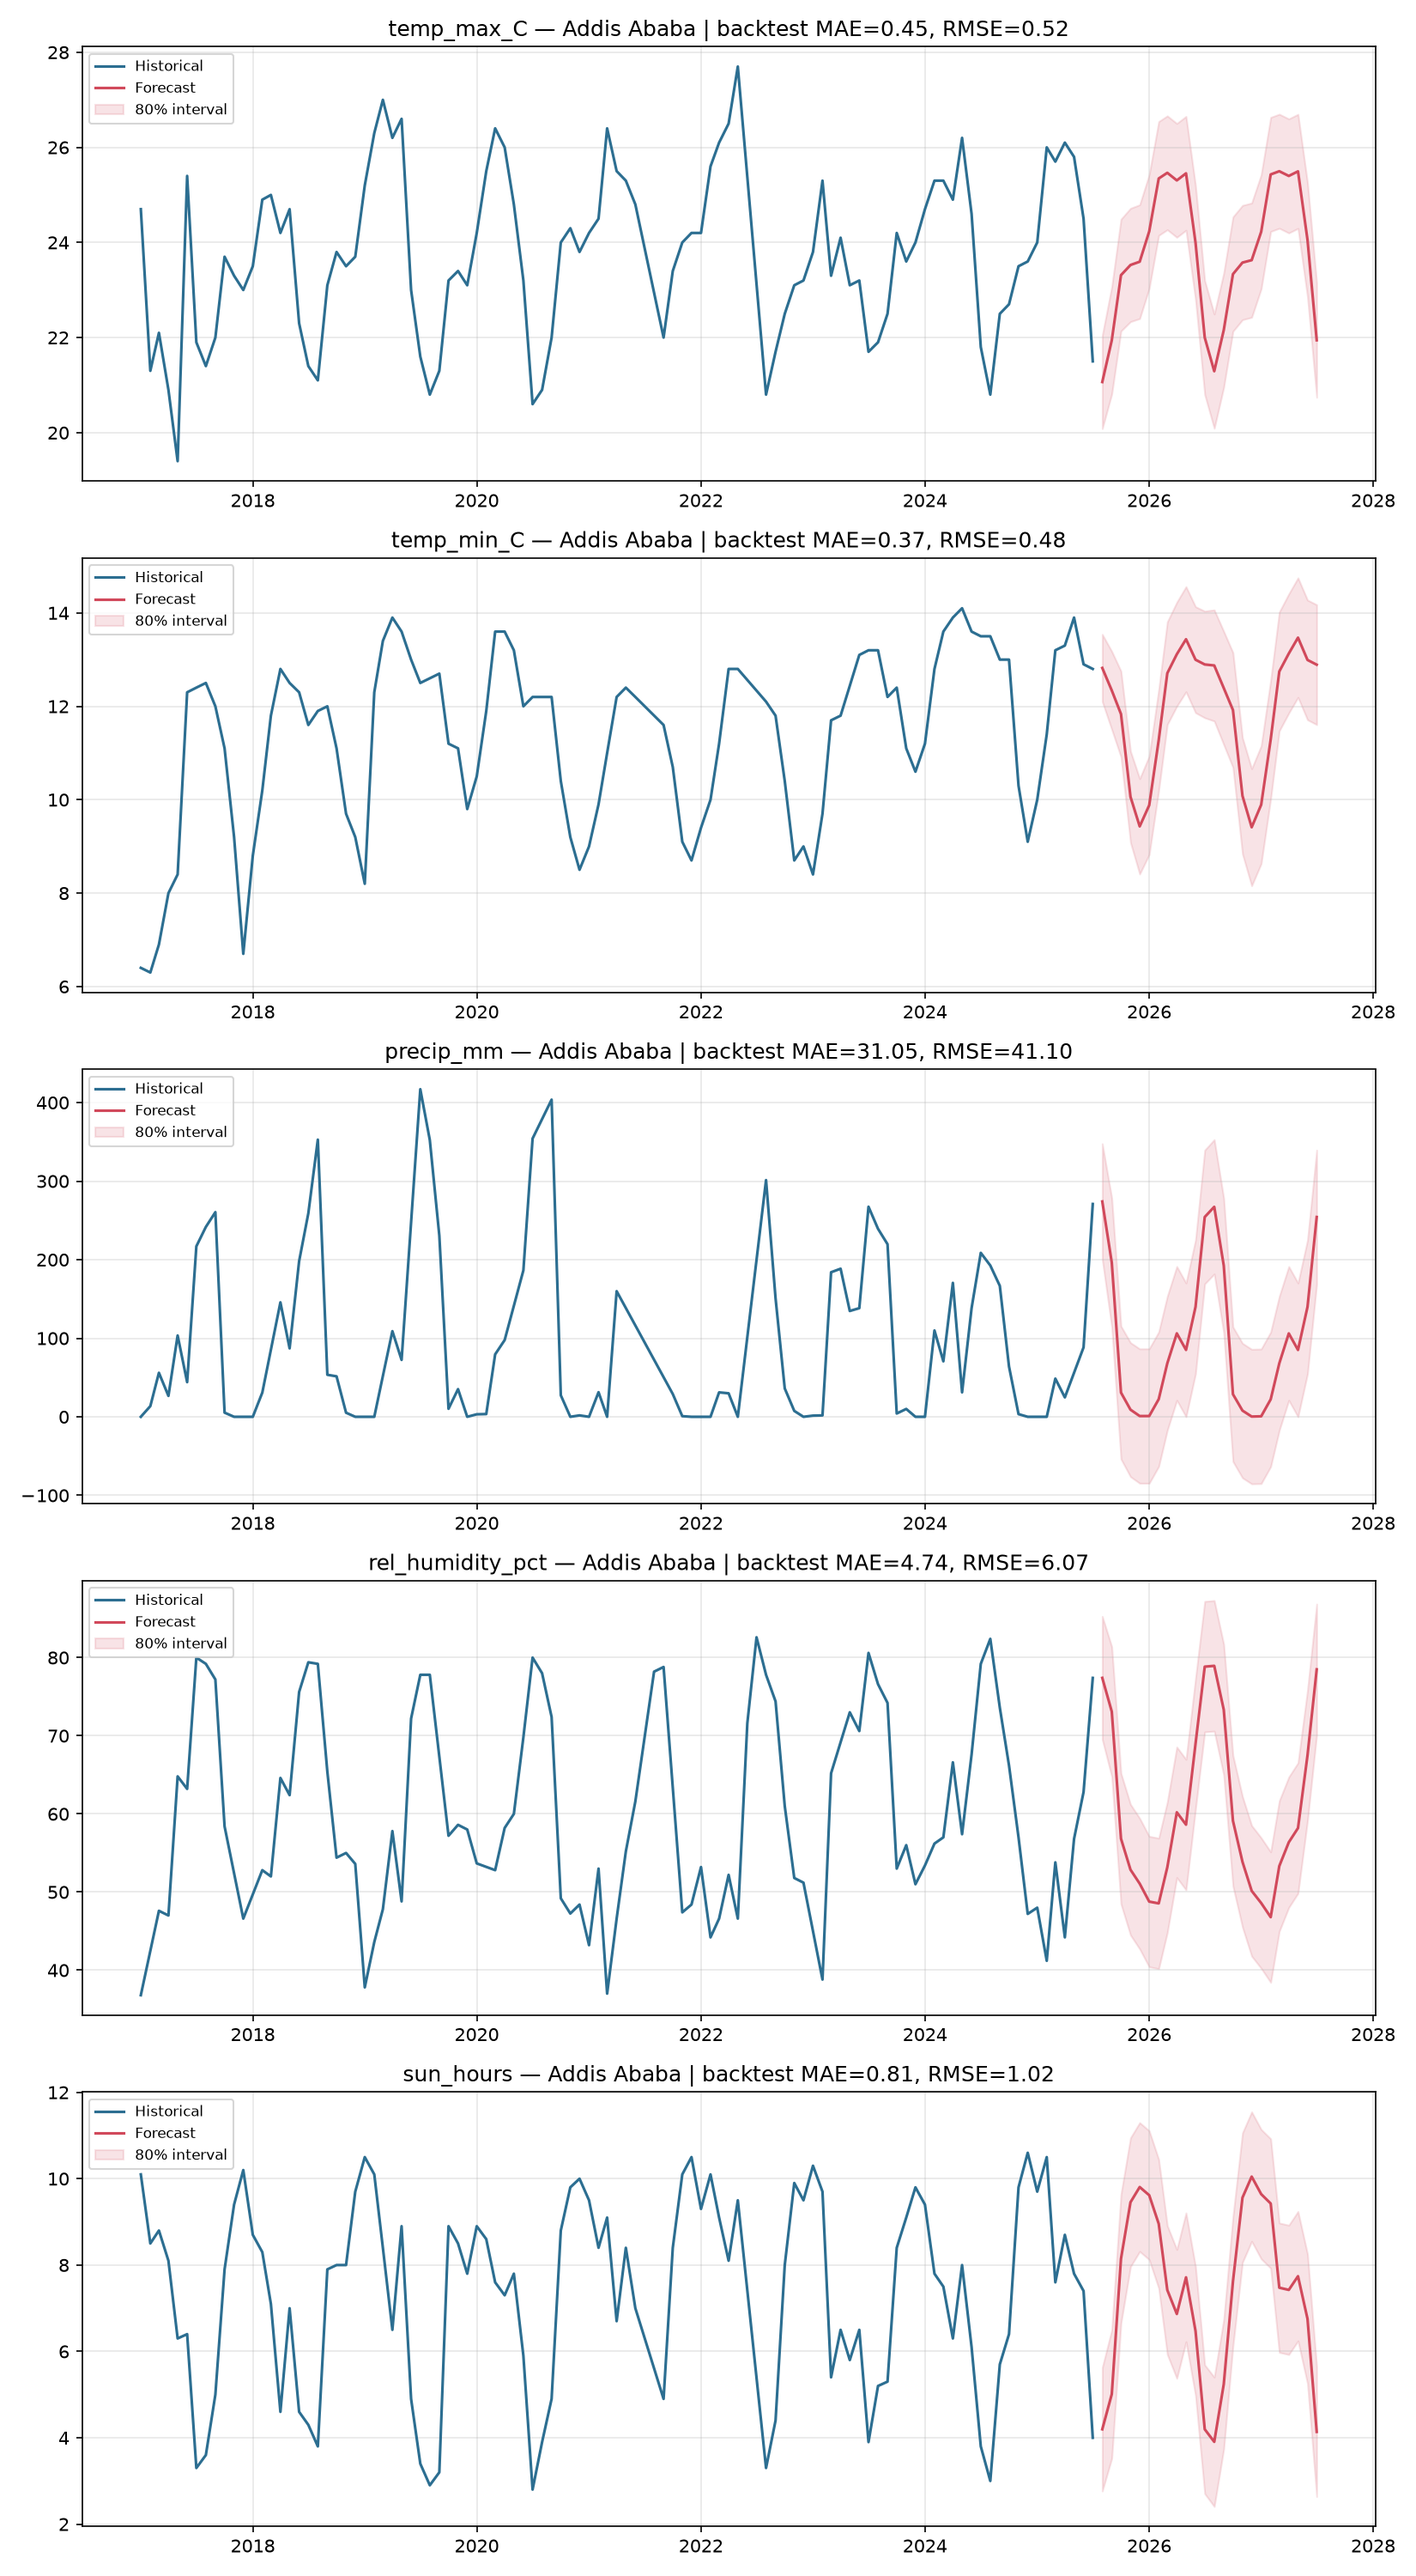
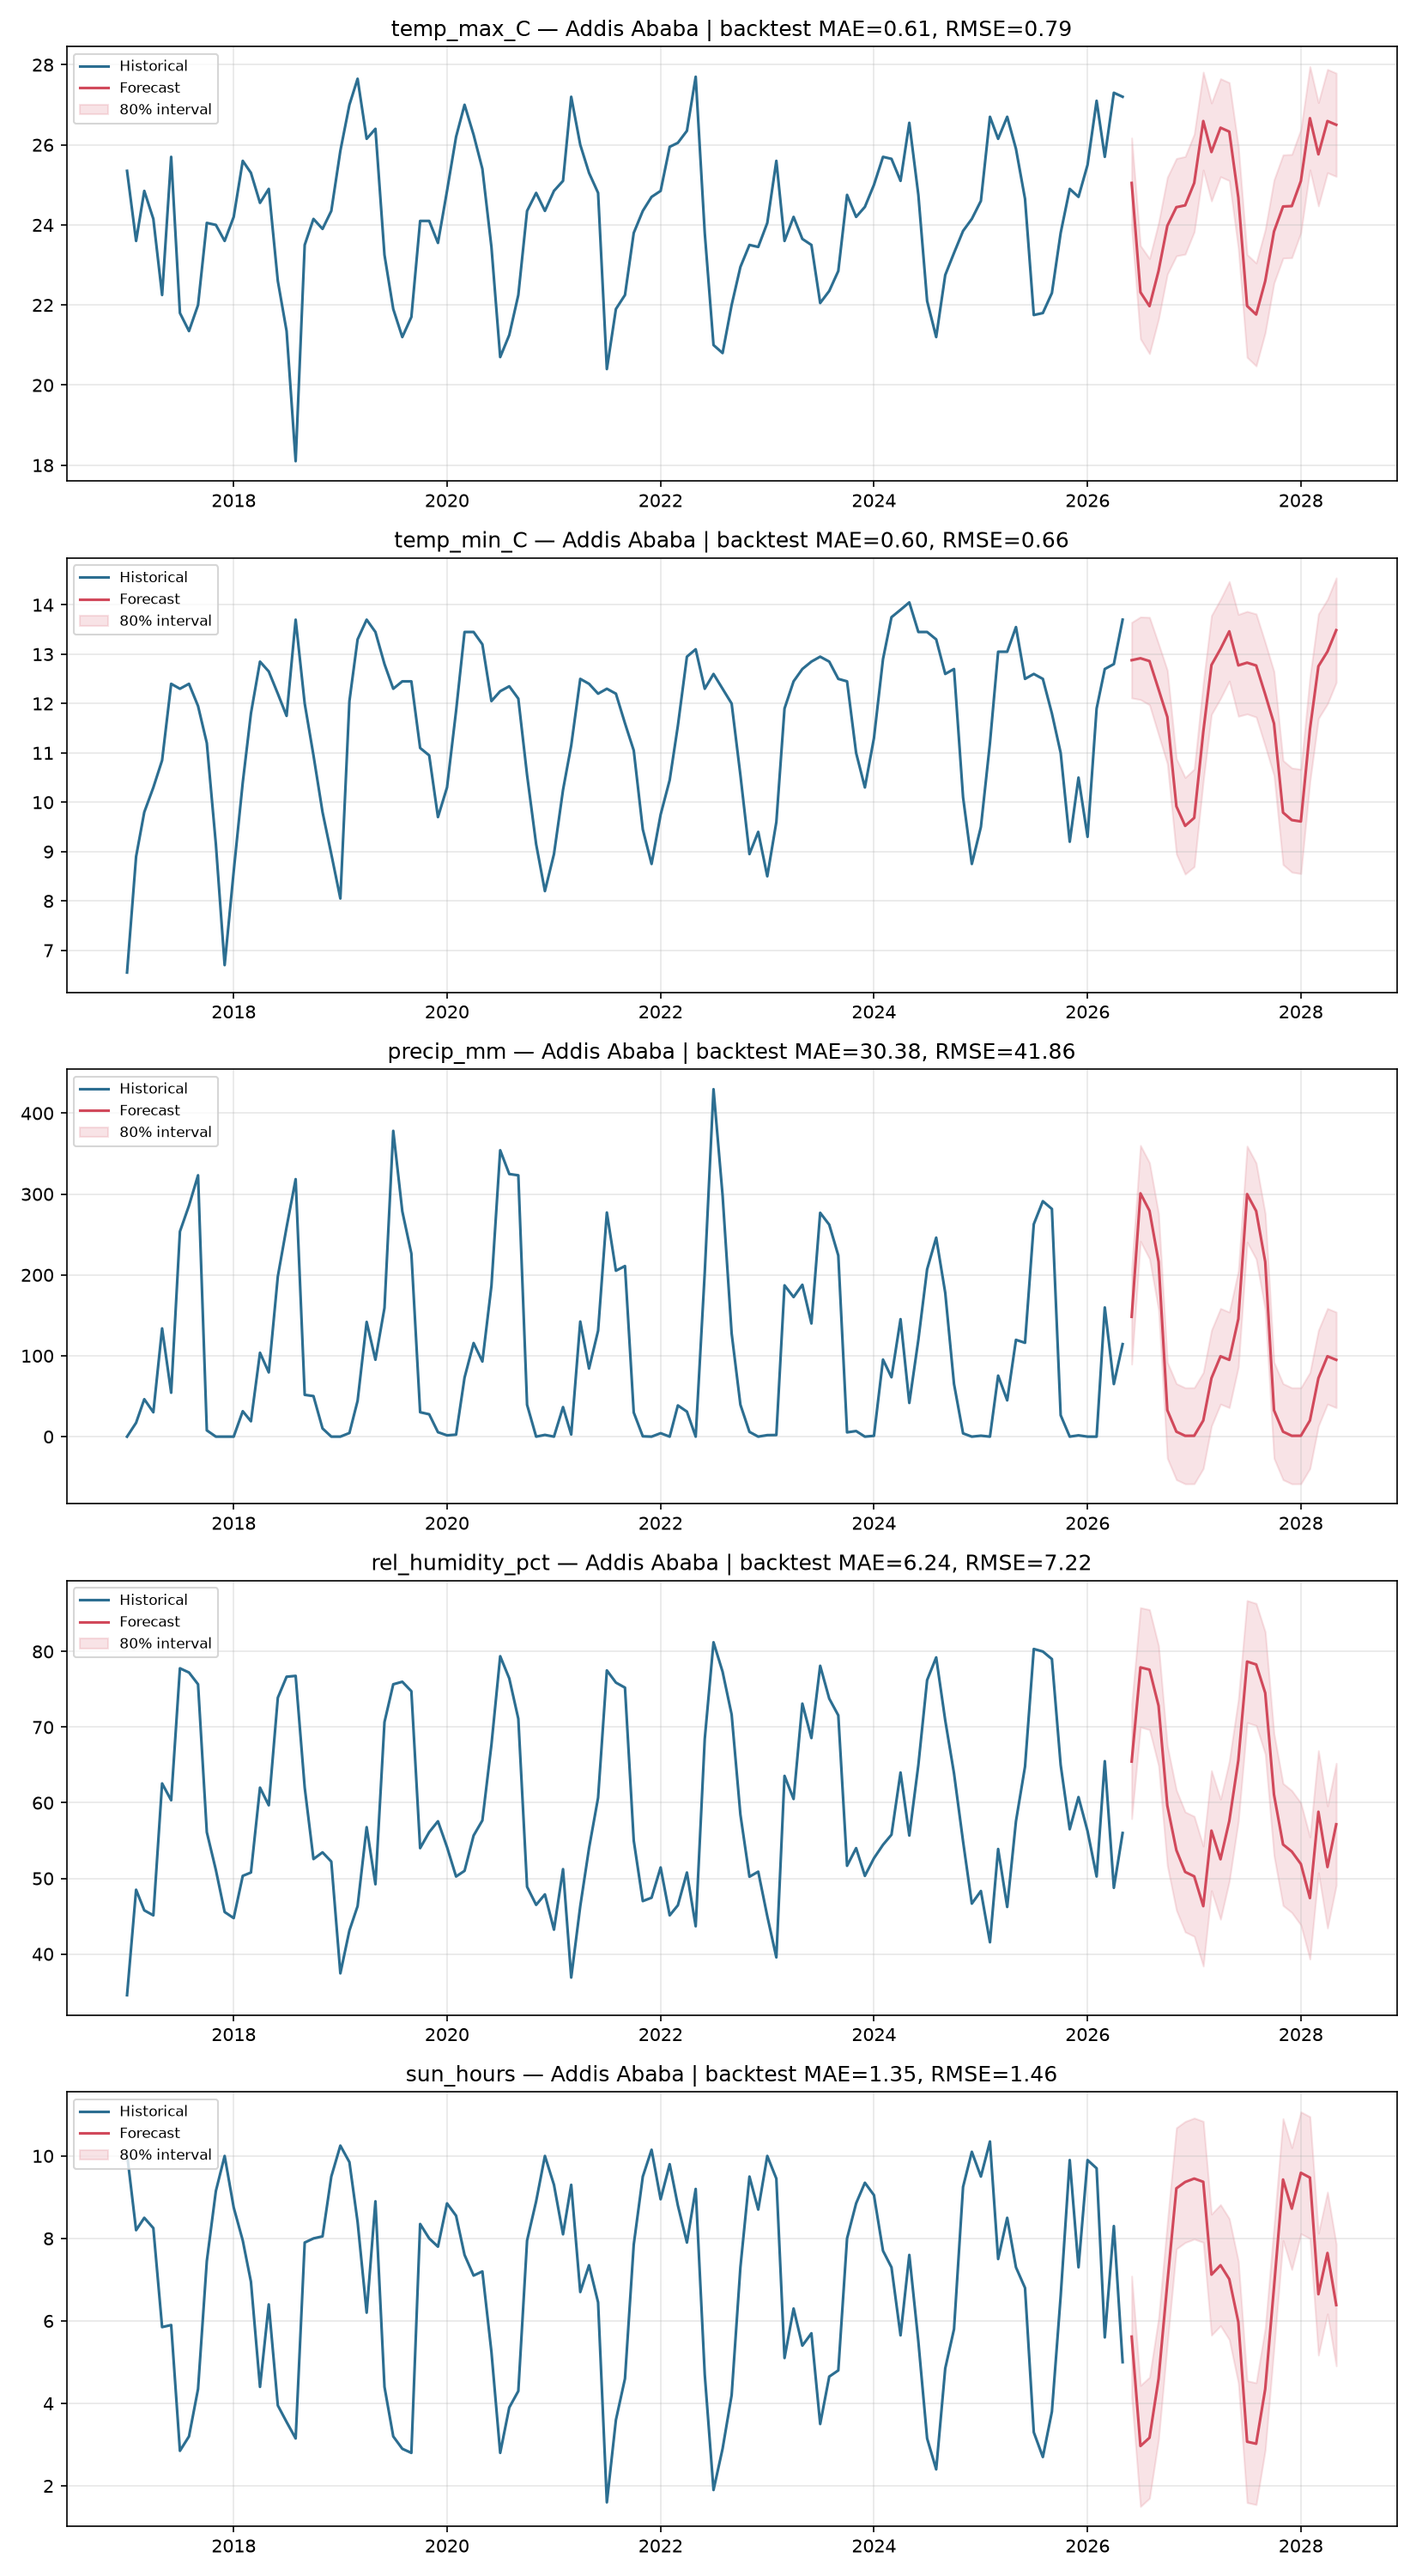
updated the forcast interval from 12 to 24 month

diff --git a/frontend/script.js b/frontend/script.js
@@ -48,7 +48,8 @@ function monthLabel(dateStr) {
 /* ---------------------------------------------------------- */
 function renderNowNext() {
   const obs = state.historical[state.historical.length - 1];
-  const fc = state.forecast[0];
+  const currentMonth = new Date().toISOString().slice(0, 7);
+  const fc = state.forecast.find((row) => row.date.startsWith(currentMonth)) || state.forecast[0];
 
   document.getElementById("observed-date").textContent = obs ? monthLabel(obs.date) : "No data";
   document.getElementById("forecast-date").textContent = fc ? monthLabel(fc.date) : "No data";

diff --git a/frontend/index.html b/frontend/index.html
@@ -41,7 +41,7 @@
         <span class="now-divider-line"></span>
       </div>
       <div class="now-card now-card--forecast" id="now-forecast">
-        <span class="now-label">Next Month Projected</span>
+        <span class="now-label">Current Month Projected</span>
         <span class="now-date" id="forecast-date">—</span>
         <div class="now-grid" id="forecast-grid"><!-- filled by JS --></div>
       </div>

diff --git a/02_train_forecast.py b/02_train_forecast.py
@@ -84,7 +84,7 @@ def main():
         ax.plot(series.index, series.values, label="Historical", color="#2c6e91")
         ax.plot(mean_fc.index, mean_fc.values, label="Forecast", color="#d1495b")
         ax.fill_between(mean_fc.index, ci.iloc[:, 0], ci.iloc[:, 1],
-                 color="#d1495b", alpha=0.15, lacbel="80% interval")
+                 color="#d1495b", alpha=0.15, label="80% interval")
         ax.set_title(f"{var} — Addis Ababa | backtest MAE={mae:.2f}, RMSE={rmse:.2f}")
         ax.legend(loc="upper left", fontsize=8)
         ax.grid(alpha=0.3)

diff --git a/backend/app.py b/backend/app.py
@@ -74,6 +74,9 @@ def load_historical():
 def load_forecast():
     df = pd.read_csv(FORECAST_PATH, parse_dates=["date"])
     df = df.sort_values("date")
+    historical_dates = pd.read_csv(HISTORICAL_PATH, parse_dates=["date"])["date"]
+    if not historical_dates.empty:
+        df = df[df["date"] > historical_dates.max()]
     df["date"] = df["date"].dt.strftime("%Y-%m-%d")
     df["season"] = df["date"].apply(lambda d: SEASONS[int(d[5:7])])
     return _clean(df.to_dict(orient="records"))
